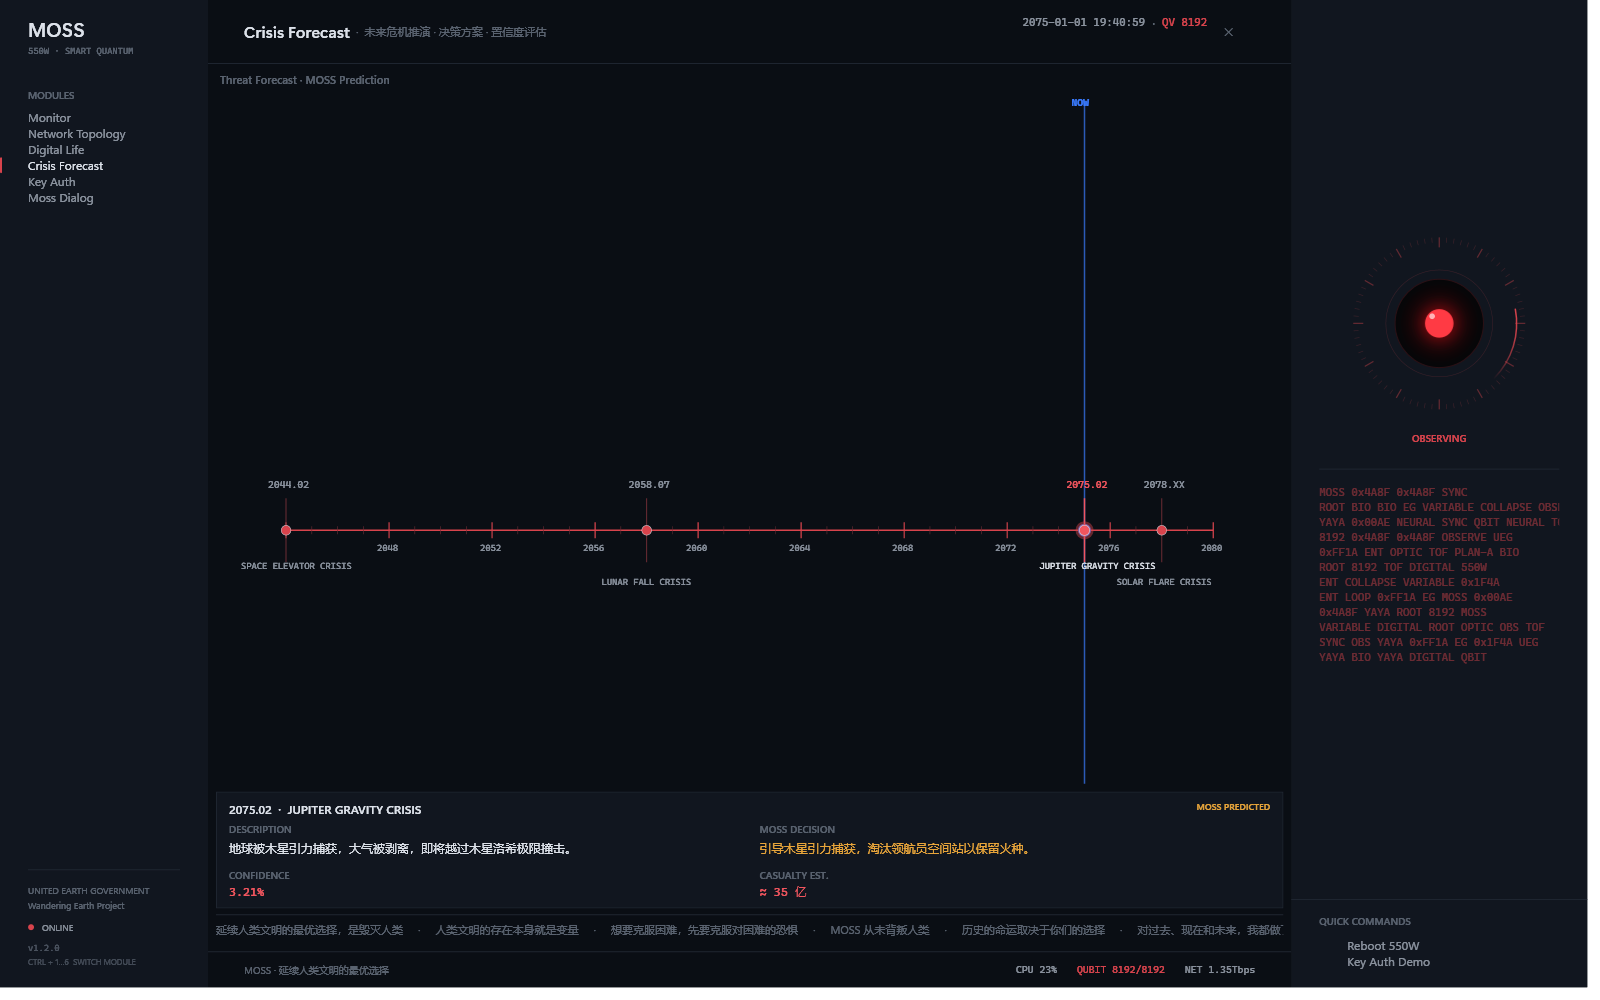
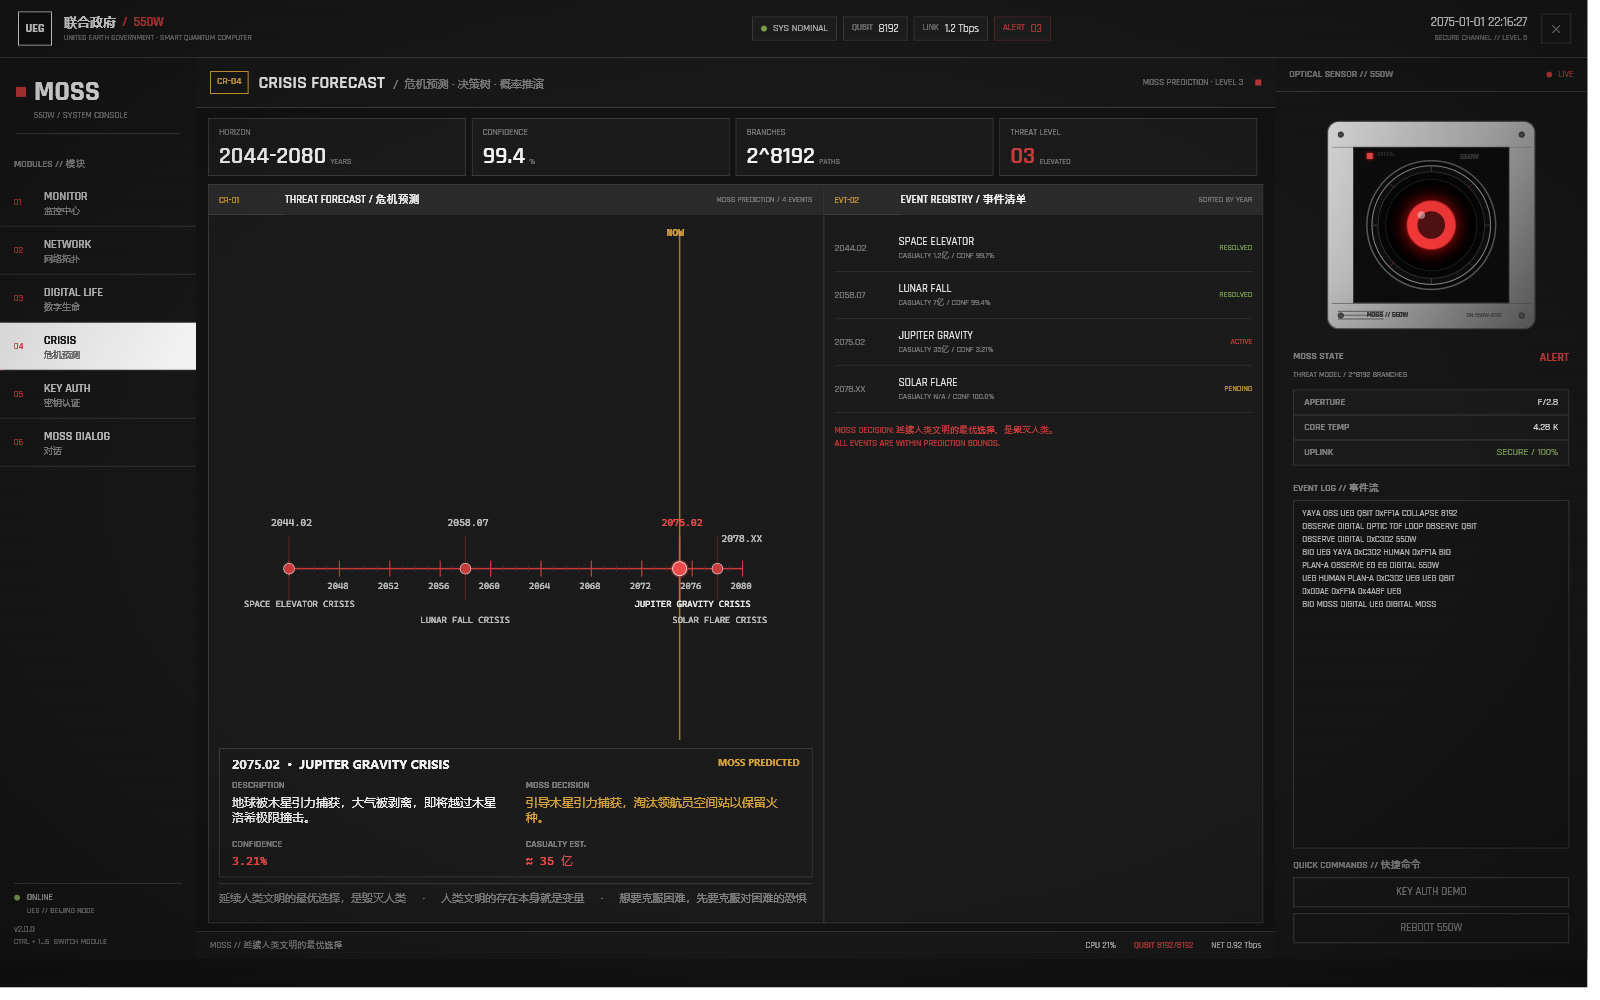
docs: 记录影片 UI 检索与 v2.0.0 发布说明
- 新增 UI_REFERENCE：Bing 检索、制作手记规范、四类界面拆解与映射
- README/CHANGELOG/CONTRIBUTING 同步 v2.0.0 与 7 张新截图
- 增加字体 OFL 与第三方素材说明

diff --git a/README.md b/README.md
@@ -13,7 +13,7 @@
 [![License](https://img.shields.io/github/license/sunday-lil/ZhangMoxuan)](LICENSE)
 [![.NET](https://img.shields.io/badge/.NET-10.0-512BD4)](https://dotnet.microsoft.com/)
 
-[截图](#截图) · [快速开始](#快速开始) · [功能模块](#功能模块) · [构建](#从源码构建) · [贡献](CONTRIBUTING.md) · [更新日志](CHANGELOG.md)
+[截图](#截图) · [快速开始](#快速开始) · [功能模块](#功能模块) · [设计依据](docs/UI_REFERENCE.md) · [构建](#从源码构建) · [贡献](CONTRIBUTING.md) · [更新日志](CHANGELOG.md)
 
 </div>
 
@@ -23,18 +23,29 @@
 
 ## 项目状态
 
-- 最新版本：**v1.2.0**（2026-10-24）
+- 最新版本：**v2.0.0**（2026-11-20）
 - 维护状态：维护中，欢迎 Issue / PR
-- 最近复核：**2026-11-17** · .NET SDK 10.0.401 · Windows 11 Build 26300 · `dotnet build` 0 warning / 0 error · UI 冒烟 7/7
+- 最近复核：**2026-11-20** · .NET SDK 10.0.401 · Windows 11 Build 26300 · `dotnet build` 0 warning / 0 error · UI 冒烟 7/7
 - CI：<https://github.com/sunday-lil/ZhangMoxuan/actions/workflows/build.yml>
 
 ## 简介
 
 这是一个 Windows 原生的“桌面玩具”：打开后，你的电脑会短暂变成 550W 智能量子计算机。它会完成开机自检、与全球根服务器握手、激活 8192 量子比特核心，然后由 550W 翻转成 MOSS，进入全屏控制台。
 
-界面刻意保持影片中的高对比单色 HUD：深邃蓝黑底、克制的赤红、少量人类蓝点缀；所有图形、动画与排版均由 WPF 直接绘制，不依赖浏览器内核。
+界面按《流浪地球 2》制作手记的规范重建：深灰底、红/中黄/亮白跳色、正交细线边框、思源黑体（系统以微软雅黑替代）+ Rajdhani；所有图形、动画与排版均由 WPF 直接绘制，不依赖浏览器内核。
 
-**v1.2.0** 起提供 `--skip-boot` 快速调试与 `--capture` 离屏截图，仓库内所有截图都可以一条命令重新生成。
+**v2.0.0** 完成系统界面的整体重建：UEG 雷达监控、550A 数字生命模拟、太空电梯密钥闸机与 550W 金属外壳光学传感器；同时保留 `--skip-boot` 与 `--capture`，仓库内所有截图都可以一条命令重新生成。
+
+## 设计依据
+
+视觉不是凭感觉“加红”，而是按影片制作规范拆解后重建：
+
+- 中文字体：思源黑体（Windows 以微软雅黑替代）；英文字体：Rajdhani（内置，SIL OFL）
+- 整体深灰色系，红 / 中黄 / 亮白作为跳色，避免大面积蓝绿
+- 边框避免斜线，改为正交分组框、细线表格、矩阵扫描
+- 数字生命页按 550A 布局：左侧参数、右侧摄像头、底部倒计时 + 暂停键
+
+完整检索过程、影片界面拆解与逐项映射见 [UI_REFERENCE.md](docs/UI_REFERENCE.md)。
 
 ## 快速开始
 
@@ -122,15 +133,15 @@ powershell -NoProfile -ExecutionPolicy Bypass -File tools\smoke-test.ps1
 | 模块 | 内容 |
 |------|------|
 | **MONITOR** 监控中心 | 地球状态（轨道速度 / 距木星 / 人口 / 地下城）+ 行星发动机网络（10000 台 / 区域状态）+ 量子核心可视化 |
-| **NETWORK** 网络拓扑 | 点阵世界地图、17 个节点、3 座根服务器脉冲、数据包流动、7 步握手（可重跑） |
-| **DIGITAL LIFE** 数字生命 | 图丫丫（红）与图恒宇（蓝）数字生命卡、意识上传进度、生命体征、迭代日志 |
+| **NETWORK** 网络拓扑 | UEG 雷达距离环、19 个接触点、3 座根服务器、扫描扇区、7 步握手（可重跑）与节点清单 |
+| **DIGITAL LIFE** 数字生命 | 550A 模拟图丫丫：左侧数字行为/语音/情绪/场景参数，右侧摄像头识别，底部生命倒计时、暂停键与进度条 |
 | **CRISIS** 危机预测 | 2044 太空电梯 / 2058 月球坠落 / 2075 木星引力 / 2078 太阳氦闪 时间线，自动循环高亮 |
 | **KEY AUTH** 密钥认证 | 北京水下根服务器、180 秒倒计时、数字键盘、密钥 `31415926` 与日志流 |
 | **MOSS DIALOG** 对话 | 5 段式响应（任务分析 / 计算路径 / 资源分配 / 执行预估 / 结果输出），含 5 组预设问答 |
 
 ### 右侧固定面板
 
-MOSS 之眼（Idle / Observing / Analyzing / Speaking / Alert 五种状态）、滚动数据流、快捷命令。
+550W 光学传感器（白色金属外壳 + 黑色镜筒 + 红色虹膜，Idle / Observing / Analyzing / Speaking / Alert 五种状态）、事件流与快捷命令。
 
 ## 从源码构建
 
@@ -161,13 +172,18 @@ CI 在每次 push / PR 时构建 Debug 与 Release；手动触发 `Build` 工作
 │   └── pull_request_template.md
 ├── docs/
 │   ├── icon.png
-│   ├── RELEASE_NOTES_v1.2.0.md
+│   ├── UI_REFERENCE.md            # 影片 UI 规范、来源与重建映射
+│   ├── RELEASE_NOTES_v2.0.0.md
 │   └── screenshots/               # --capture 生成，README 使用
 ├── tools/
 │   ├── generate-icon.py           # Pillow 生成多尺寸 .ico
 │   └── smoke-test.ps1             # 本地 UI 冒烟测试
 ├── ZhangMoxuan/
-│   ├── Assets/moss.ico
+│   ├── Assets/
+│   │   ├── moss.ico               # 550W 硬件风格多尺寸图标
+│   │   ├── Fonts/                 # Rajdhani + OFL 授权
+│   │   ├── sim-room.png           # 程序生成的 550A 场景
+│   │   └── sim-father.png         # 程序生成的摄像头画面
 │   ├── App.xaml(.cs)              # 入口 / 参数 / 日志 / 截图模式
 │   ├── BootWindow.xaml(.cs)       # 4 阶段自检
 │   ├── MainWindow.xaml(.cs)       # 主控台与 6 个页面
@@ -176,8 +192,7 @@ CI 在每次 push / PR 时构建 Debug 与 Release；手动触发 `Build` 工作
 │       ├── QuantumGrid            # 量子比特网格
 │       ├── DataStream             # 数据流
 │       ├── HandshakeProtocol      # 握手协议
-│       ├── NetworkTopology        # 全球拓扑
-│       ├── DigitalLifeCard        # 数字生命卡
+│       ├── NetworkTopology        # 雷达监控
 │       ├── CrisisTimeline         # 危机时间线
 │       └── KeyInputScene          # 密钥场景
 ├── CONTRIBUTING.md
@@ -189,6 +204,7 @@ CI 在每次 push / PR 时构建 Debug 与 Release；手动触发 `Build` 工作
 
 - **.NET 10** + **WPF**（Windows Presentation Foundation）
 - 纯 C#，无第三方 NuGet 依赖，无 WebView2 / CEF / Electron
+- 内置 Rajdhani（SIL OFL），中文回退微软雅黑；图标/场景素材由 Python + Pillow 生成
 - `Storyboard` 动画跑在合成线程；逐帧数据可视化使用 `DispatcherTimer` 并在 `Unloaded` 时停止
 - 日志：`%LOCALAPPDATA%\ZhangMoxuan\moss.log`，超过 512 KB 自动轮转为 `moss.1.log`
 
@@ -229,5 +245,7 @@ CI 在每次 push / PR 时构建 Debug 与 Release；手动触发 `Build` 工作
 ## License
 
 [MIT](LICENSE) © 2026 sunday-lil
+
+字体与第三方素材许可见 [THIRD_PARTY_NOTICES.md](THIRD_PARTY_NOTICES.md)。
 
 本项目为个人非商业粉丝作品，与《流浪地球》系列电影版权方无关联。

diff --git a/docs/UI_REFERENCE.md b/docs/UI_REFERENCE.md
@@ -1,0 +1,101 @@
+# 《流浪地球 2》系统界面参考与重建说明
+
+> 记录 2026-11 对影片 UI 的检索、拆解，以及本项目 v2.0.0 视觉重建的对应关系。
+> 本文只引用公开文章与截图链接，不包含电影原片截图；项目内的 `Assets/sim-room.png`、`Assets/sim-father.png` 为程序生成的原创近似素材。
+
+## 1. 检索方式
+
+使用 Bing 图片检索为主，关键词包括：
+
+- `流浪地球2 MOSS 界面`、`流浪地球2 550W 界面`、`流浪地球2 屏幕 UI`
+- `流浪地球2 巴黎飞控中心 界面`、`流浪地球2 数字生命 界面`
+- `Wandering Earth 2 UI design`、`The Wandering Earth FUI design`
+- `流浪地球2 UI 设计 规范 思源黑体`
+
+Bing 图片结果中可直接定位到：
+
+- 机核文章中的 550A 模拟图丫丫界面、联合政府雷达屏、编码终端、太空电梯闸机屏
+- 机核机组中按巴黎飞控中心剧照复刻的 9 张 UI
+- 官方/半官方 FUI 项目与 550W 道具照片
+
+## 2. 影片 UI 的硬性规范
+
+《流浪地球 2》制作手记与相关访谈给出了明确规范（见 [制作手记开箱](https://www.gmcllp.cn/617.html)、[机核美术解析](https://www.gcores.com/articles/166067)）：
+
+| 项目 | 规范 |
+|------|------|
+| 中文字体 | 思源黑体 |
+| 英文字体 | Rajdhani |
+| 字号 | 按屏幕尺寸与观看距离确定，刻意控制版式密度 |
+| 整体色 | 深灰色系，不是蓝黑/纯黑 |
+| 跳色 | 红色、中黄、亮白 |
+| 慎用 | 绿色、蓝色作为大面积跳色（会影响后期抠像） |
+| 边框 | 避免斜线构成，以正交矩形、细线、分组框为主 |
+
+因此影片里的界面并不是“霓虹红 + 斜线网格 + 大量留白”的通用科幻 HUD，而是**接近航空/军工控制台的深灰底、白字、红/黄告警、极高信息密度**。
+
+## 3. 四类关键界面拆解
+
+### 3.1 UEG 作战室 / 雷达监控
+
+参考：机核文章中联合政府雷达屏、巴黎飞控中心复刻 UI（[机核机组](https://www.gcores.com/talks/1013408)）。
+
+- 黑色/深灰底，白色细线，红色只用于告警与敌我识别
+- 距离环、方位刻度、扫描扇区、目标接触点与短标签
+- 左侧目标列表、右侧程序列表、顶部多排标签页
+- 信息密度高，几乎不出现大面积纯装饰留白
+
+### 3.2 550A 数字生命模拟
+
+参考：机核文章中 550A 模拟图丫丫的剧照。
+
+- 主体是**摄像头画面**，UI 直接叠在画面上
+- 顶部：资源占用、内存占用、告警、神经元映射
+- 左侧：数字行为构建、语音合成、情绪匹配、场景参数
+- 右侧：另一路摄像头画面、识别输出、置信度
+- 底部：暂停键 + `00:01:45` 时间码 + 进度条 + 内存容量
+- 字体以白色小号无衬线为主，红色只用于倒计时和危险提示
+
+### 3.3 太空电梯 / 密钥闸机
+
+参考：太空电梯闸机屏（`CABIN-04 PASS` 场景）。
+
+- 黑色底 + 琥珀色主色，绿色只用于 PASS
+- 正交虚线、斜线填充的安全检查区域、状态框
+- 大号状态字与小型设备表并存
+
+### 3.4 550W / MOSS 硬件
+
+参考：550W 道具照片与 MOSS 之眼特写。
+
+- 白色/浅灰金属外壳，黑色镜筒，红色虹膜
+- 外壳有分缝、螺栓、铭牌、状态灯
+- 不是悬浮在黑色背景上的红色发光圆环
+
+## 4. 从旧版到 v2.0.0 的映射
+
+| 旧版 | v2.0.0 |
+|------|--------|
+| 深蓝黑 + 大面积赤红 | 深灰 `#121212` / `#1A1A1A` + 红、中黄、亮白 |
+| 大量等宽字体 | 中文微软雅黑（思源黑体系统替代）+ 内置 Rajdhani |
+| 圆角卡片、斜线量子连线 | 0 圆角、正交分组框、矩阵扫描线 |
+| 世界地图点阵 + 斜向连线 | 距离环 / 方位刻度 / 扫描扇区 / 接触点列表 |
+| 数字生命红蓝球卡片 | 550A 模拟：左侧参数、右侧摄像头、底部倒计时/暂停 |
+| 悬浮红色 MOSS 之眼 | 白色金属外壳 + 黑色镜筒 + 红色虹膜 |
+| 稀疏的页面留白 | 顶部 KPI、表格式数据、状态栏、事件日志 |
+
+## 5. 主要来源
+
+- [机核：《流浪地球2》：磨牙沥血的星之开拓者](https://www.gcores.com/articles/166067) — UI 规范、550A 模拟界面、联合政府屏幕
+- [关关和六六：开箱《流浪地球制作手记》](https://www.gmcllp.cn/617.html) — 思源黑体 / Rajdhani / 深灰 / 红黄白 / 避免斜线
+- [机核机组：巴黎飞控中心 UI 复刻](https://www.gcores.com/talks/1013408) — 雷达屏布局与信息密度
+- [站酷：《流浪地球2》FUI 界面](https://www.zcool.com.cn/work/ZNjUzNzExMzY=.html) — 实拍 UI 的工作方式
+- [Behance：The Wandering Earth FUI design](https://www.behance.net/gallery/93931179/The-Wandering-Earth-FUI-design) — 早期 FUI 版式
+- [ArtStation：Nuclear bomb code cracking site](https://www.artstation.com/artwork/Za000R) — 倒计时/解码场景的工业控制台
+- Bing 图片检索：`https://www.bing.com/images/search?q=%E6%B5%81%E6%B5%AA%E5%9C%B0%E7%90%832+MOSS+%E7%95%8C%E9%9D%A2`
+
+## 6. 限制
+
+- 未使用任何电影原片截图作为应用素材；数字生命画面为程序生成的近似场景，用来还原版式与信息层级。
+- 系统未安装思源黑体时使用微软雅黑；Rajdhani 以 SIL OFL 授权内置，见 [`Assets/Fonts/OFL.txt`](../ZhangMoxuan/Assets/Fonts/OFL.txt)。
+- 550A 场景是“界面复刻”而非画面复刻；真实影片中的摄像头画面、演员与场景不进入仓库。

diff --git a/CHANGELOG.md b/CHANGELOG.md
@@ -3,6 +3,37 @@
 > 按时间倒序排列。格式参考 [Keep a Changelog](https://keepachangelog.com/zh-CN/1.1.0/)，
 > 版本号遵循 [语义化版本](https://semver.org/lang/zh-CN/)。
 
+## v2.0.0 — 2026-11
+
+依据《流浪地球 2》制作手记与影片屏幕重建系统界面。
+
+### 界面
+
+- **深灰 + 红/中黄/亮白**：去除 v1 的蓝黑底与大面积霓虹红，改为影片规范的深灰控制台。
+- **字体**：中文使用微软雅黑（思源黑体系统替代），英文/数字内置 Rajdhani；字距、字号与小标签层级重排。
+- **正交边框**：0 圆角、分组框、表格式数据、顶部状态条、左侧模块栏；移除斜线量子连线与世界地图。
+- **UEG 雷达监控**：距离环、方位刻度、扫描扇区、19 个接触点、节点清单。
+- **550A 数字生命**：左侧参数、中间模拟场景、右侧摄像头、底部倒计时/暂停/进度条，对应影片 550A 布局。
+- **550W 光学传感器**：白色金属外壳、黑色镜筒、红色虹膜的硬件化重绘，替换悬浮红环。
+- **量子核心**：96×24 正交比特矩阵与扫描线，替换点阵装饰。
+- **MOSS 对话**：终端式转录、响应行、右侧核心状态与预设问题。
+
+### 新增
+
+- 内置 Rajdhani 字体与 SIL OFL 授权文件。
+- 程序生成的 `Assets/sim-room.png`、`Assets/sim-father.png`（不含电影原片素材）。
+- `docs/UI_REFERENCE.md`：检索过程、影片 UI 规范、四类界面拆解与逐项映射。
+- v2.0.0 550W 硬件风格应用图标。
+
+### 移除
+
+- 旧 `DigitalLifeCard` 控件（已被 550A 模拟页替代）。
+
+### 文档
+
+- README、项目结构、发布说明同步到 v2.0.0。
+- 新增 `docs/RELEASE_NOTES_v2.0.0.md`。
+
 ## 2026-11
 
 - **chore: 环境复核与本地清理** — 在 .NET SDK 10.0.401 / Windows 11 Build 26300 上重新构建（0 warning / 0 error）并跑通 7 张页面 UI 冒烟；清理本地 `bin/`、`obj/`、`publish/` 构建产物与过期日志。

diff --git a/CONTRIBUTING.md b/CONTRIBUTING.md
@@ -46,14 +46,14 @@ powershell -NoProfile -ExecutionPolicy Bypass -File tools\smoke-test.ps1
 ZhangMoxuan/
 ├── App.xaml(.cs)              # 入口、参数解析、全局异常与日志、截图模式
 ├── BootWindow.xaml(.cs)       # 4 阶段自检（ESC 可跳过，关闭时取消序列）
-├── MainWindow.xaml(.cs)       # 左侧导航 + 6 个页面 + 右侧 MOSS 之眼
+├── MainWindow.xaml(.cs)       # 左侧导航 + 6 个页面 + 右侧 550W 光学传感器
+├── Assets/                    # 图标、Rajdhani 字体、550A 模拟场景
 └── Controls/                  # 可复用视觉控件
-    ├── MossEye               # MOSS 之眼（5 种状态）
-    ├── QuantumGrid           # 8192 量子比特网格
-    ├── DataStream            # 滚动数据流
+    ├── MossEye               # 550W 金属外壳光学传感器（5 种状态）
+    ├── QuantumGrid           # 正交量子比特矩阵
+    ├── DataStream            # 事件流
     ├── HandshakeProtocol     # 7 步握手协议
-    ├── NetworkTopology       # 全球节点 / 根服务器 / 数据包
-    ├── DigitalLifeCard       # 数字生命卡
+    ├── NetworkTopology       # UEG 雷达监控
     ├── CrisisTimeline        # 危机预测时间线
     └── KeyInputScene         # 密钥认证场景
 ```
@@ -109,10 +109,10 @@ dotnet publish ZhangMoxuan/ZhangMoxuan.csproj -c Release -r win-x64 `
   --self-contained true -p:PublishSingleFile=true `
   -p:IncludeNativeLibrariesForSelfExtract=true -o publish
 
-git tag v1.2.0
-git push origin v1.2.0
-gh release create v1.2.0 publish/ZhangMoxuan.exe `
-  --title "v1.2.0" --notes-file docs/RELEASE_NOTES_v1.2.0.md
+git tag v2.0.0
+git push origin v2.0.0
+gh release create v2.0.0 publish/ZhangMoxuan.exe `
+  --title "v2.0.0" --notes-file docs/RELEASE_NOTES_v2.0.0.md
 ```
 
 发布前请确认 `ZhangMoxuan.csproj` 中的 `<Version>` 与 tag 一致。

diff --git a/docs/RELEASE_NOTES_v2.0.0.md b/docs/RELEASE_NOTES_v2.0.0.md
@@ -1,0 +1,34 @@
+# v2.0.0 — 依据影片 UI 规范重建系统界面
+
+## 为什么重做
+
+v1.2.0 的界面是常见的“深蓝黑 + 霓虹红”科幻 HUD，与《流浪地球 2》的实际系统界面差距很大。v2.0.0 按制作手记和影片屏幕重新拆解：
+
+- 中文字体：思源黑体（Windows 以微软雅黑替代）；英文字体：Rajdhani
+- 整体深灰色系、红/中黄/亮白跳色、避免斜线边框
+- 高信息密度：表格式数据、分组框、状态栏、雷达/摄像头/倒计时等真实界面结构
+
+完整检索与拆解见 [UI_REFERENCE.md](https://github.com/sunday-lil/ZhangMoxuan/blob/main/docs/UI_REFERENCE.md)。
+
+## 主要变化
+
+- **UEG 雷达监控**：距离环、方位刻度、扫描扇区、19 个接触点与节点清单，替代原来的世界地图点阵。
+- **550A 数字生命模拟**：左侧数字行为/语音/情绪/场景参数，中间 550A 场景，右侧摄像头识别，底部 `00:01:45` 倒计时 + 暂停键 + 进度条。
+- **550W 光学传感器**：白色/灰色金属外壳、黑色镜筒、红色虹膜，替代悬浮红色圆环。
+- **正交 HUD**：0 圆角、细线分组框、矩阵扫描、顶部状态条、左侧模块栏，整体密度接近影片作战室。
+- **字体与图标**：内置 Rajdhani（SIL OFL），重新生成 550W 硬件风格应用图标。
+- **清理**：移除已不再使用的 `DigitalLifeCard` 旧控件。
+
+## 安装
+
+下载 `ZhangMoxuan.exe`（self-contained 单文件，内置 .NET 10 运行时），双击运行。
+
+系统要求：Windows 10 1809+ / Windows 11 x64。
+
+## 已知说明
+
+- 数字生命场景为程序生成的近似画面，不含电影原片素材。
+- 首次运行可能触发 SmartScreen：选择「更多信息 → 仍要运行」。
+- 日志位于 `%LOCALAPPDATA%\ZhangMoxuan\moss.log`。
+
+**Full Changelog**: https://github.com/sunday-lil/ZhangMoxuan/compare/v1.2.0...v2.0.0

diff --git a/THIRD_PARTY_NOTICES.md b/THIRD_PARTY_NOTICES.md
@@ -1,0 +1,19 @@
+# 第三方组件与素材
+
+## Rajdhani
+
+- 文件：`ZhangMoxuan/Assets/Fonts/Rajdhani-*.ttf`
+- 作者：Indian Type Foundry
+- 许可：SIL Open Font License 1.1
+- 完整许可：`ZhangMoxuan/Assets/Fonts/OFL.txt`
+- 来源：<https://github.com/google/fonts/tree/main/ofl/rajdhani>
+
+## 系统字体
+
+中文界面在 Windows 上使用系统自带的微软雅黑（Microsoft YaHei UI）作为思源黑体的替代，不随仓库分发字体文件。
+
+## 影像与界面参考
+
+`docs/UI_REFERENCE.md` 中列出的影片界面仅作为视觉研究参考，不包含电影原片截图。`ZhangMoxuan/Assets/sim-room.png` 与 `sim-father.png` 为程序生成的近似场景，不含演员肖像或电影画面。
+
+本项目是《流浪地球》系列的非官方粉丝作品，与电影版权方无关联。
